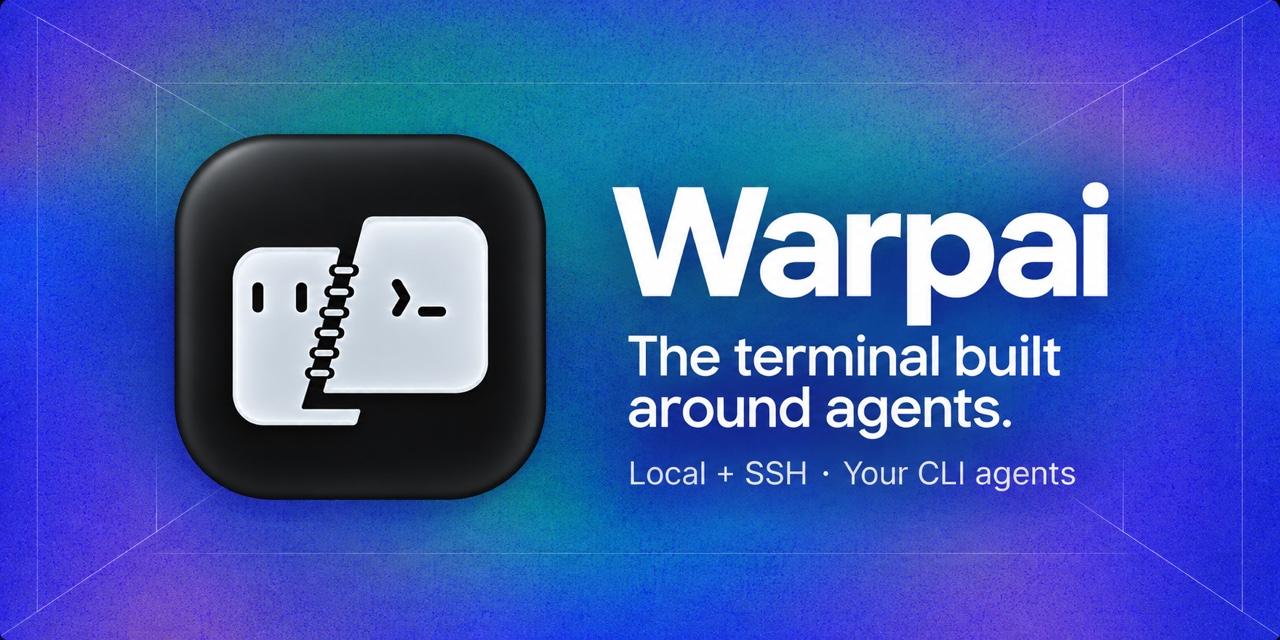
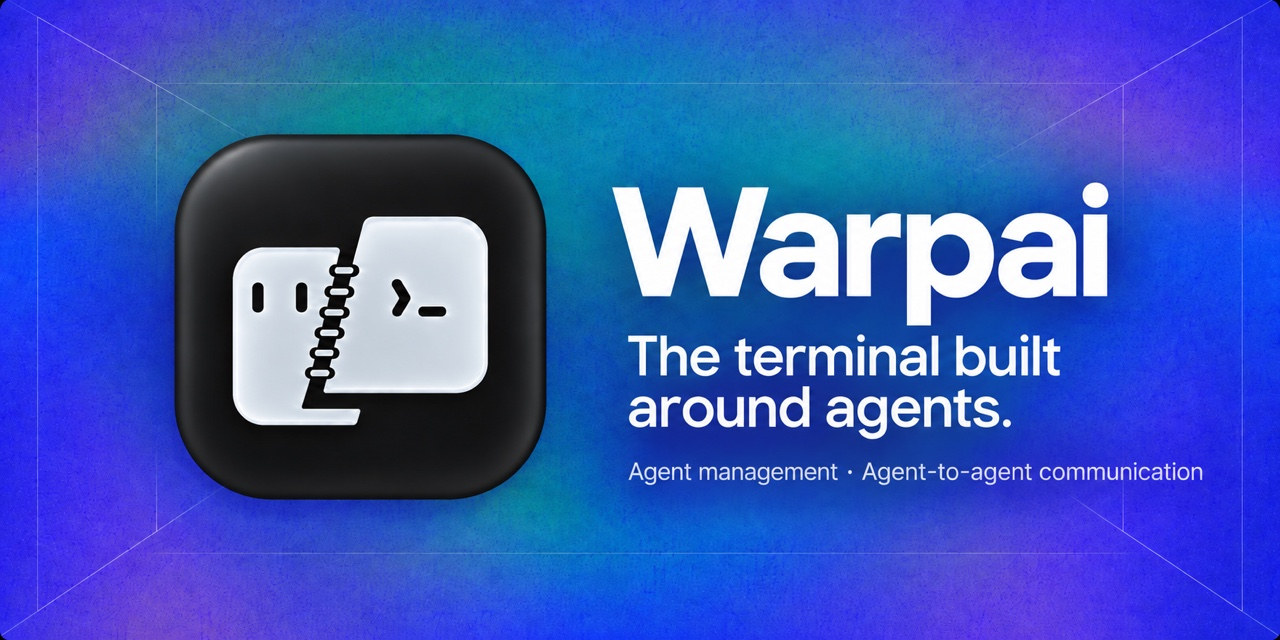
Clarify agent management and communication in cover copy [skip ci]

diff --git a/docs/images/SOCIAL-PREVIEW.md b/docs/images/SOCIAL-PREVIEW.md
@@ -3,7 +3,7 @@
 ## Asset and references
 
 - Final asset: [warpai-social-preview.jpg](warpai-social-preview.jpg), 1280 × 640,
-  335,767 bytes, opaque JPEG. Both READMEs use this file.
+  271,422 bytes, opaque JPEG. Both READMEs use this file.
 - Generated with the built-in imagegen tool on 2026-10-07; exported from its
   1774 × 887 PNG with native macOS `sips`, JPEG quality 90, without cropping.
 - Identity reference: [approved Warpai icon](../../app/assets/branding/warpai.png).
@@ -12,6 +12,10 @@
   Upstream logos and application screenshots are not included.
 - This is a marketing image, not a native application capture. Existing app
   icons and README screenshots are unchanged.
+- Copy revision: the supporting line is now **Agent management · Agent-to-agent
+  communication**, emphasizing AI agent management and communication between
+  agents rather than SSH or human team collaboration. The established visual
+  style, icon, wordmark and headline are retained.
 
 ## Acceptance
 
@@ -35,7 +39,13 @@ Open [repository Settings](https://github.com/OthinusG/warpai/settings), find
 GitHub recommends 1280 × 640 and requires a file under 1 MB; this export meets
 both. See [GitHub's official instructions](https://docs.github.com/en/repositories/managing-your-repositorys-settings-and-features/customizing-your-repository/customizing-your-repositorys-social-media-preview).
 
-## Generation prompt
+## Final text-edit prompt
+
+```text
+Edit the supplied Warpai repository cover, changing ONLY the small bottom-right supporting line "Local + SSH · Your CLI agents" to exactly "Agent management · Agent-to-agent communication". This communicates management of AI agents and communication between AI agents, not human team collaboration. Keep the wordmark "Warpai" and the two-line headline "The terminal built / around agents." unchanged. Preserve the entire existing composition, icon geometry with six binding links, icon size and position, black material, blue/violet/teal grainy background, thin geometric frame, colors and main typography. Fit the new supporting copy within the current right text column as ONE line by using a suitably smaller font (approximately 21px at 1280px canvas width). Maintain its current baseline and light gray/white color, with readable spacing. No overlap, no clipping, no added text, no visual redesign, no SSH text. Opaque 2:1 landscape cover, ideally 1280x640 pixels.
+```
+
+## Original generation prompt
 
 ```text
 Use case: ads-marketing / compositing.

diff --git a/MEMORY.md b/MEMORY.md
@@ -2,6 +2,10 @@
 
 ## Repository cover — 2026-10-07
 
+- Owner correction: cover copy must emphasize Agent management and communication
+  between agents, not SSH, generic "Your CLI agents" or human team collaboration.
+  Keep its visual style and use "Agent management · Agent-to-agent communication"
+  as the supporting line.
 - Owner requests a shared README/Social preview cover incorporating the approved
   Warpai icon and the official Warp repository's gradient style. Both READMEs
   use docs/images/warpai-social-preview.jpg; application icons and native

diff --git a/README.md b/README.md
@@ -4,7 +4,7 @@
 
 # Warpai
 
-<img src="docs/images/warpai-social-preview.jpg" alt="Warpai — The terminal built around agents. Local + SSH, your CLI agents." width="960">
+<img src="docs/images/warpai-social-preview.jpg" alt="Warpai — The terminal built around agents. Agent management and agent-to-agent communication." width="960">
 
 ### The terminal built around agents.
 

diff --git a/README.zh-CN.md b/README.zh-CN.md
@@ -4,7 +4,7 @@
 
 # Warpai
 
-<img src="docs/images/warpai-social-preview.jpg" alt="Warpai：围绕 Agent 构建的终端，支持本地与 SSH 工作流。" width="960">
+<img src="docs/images/warpai-social-preview.jpg" alt="Warpai：围绕 Agent 构建的终端，支持 Agent 管理与智能体间通信。" width="960">
 
 ### 为 Agent 协作而生的终端工作空间。
 
